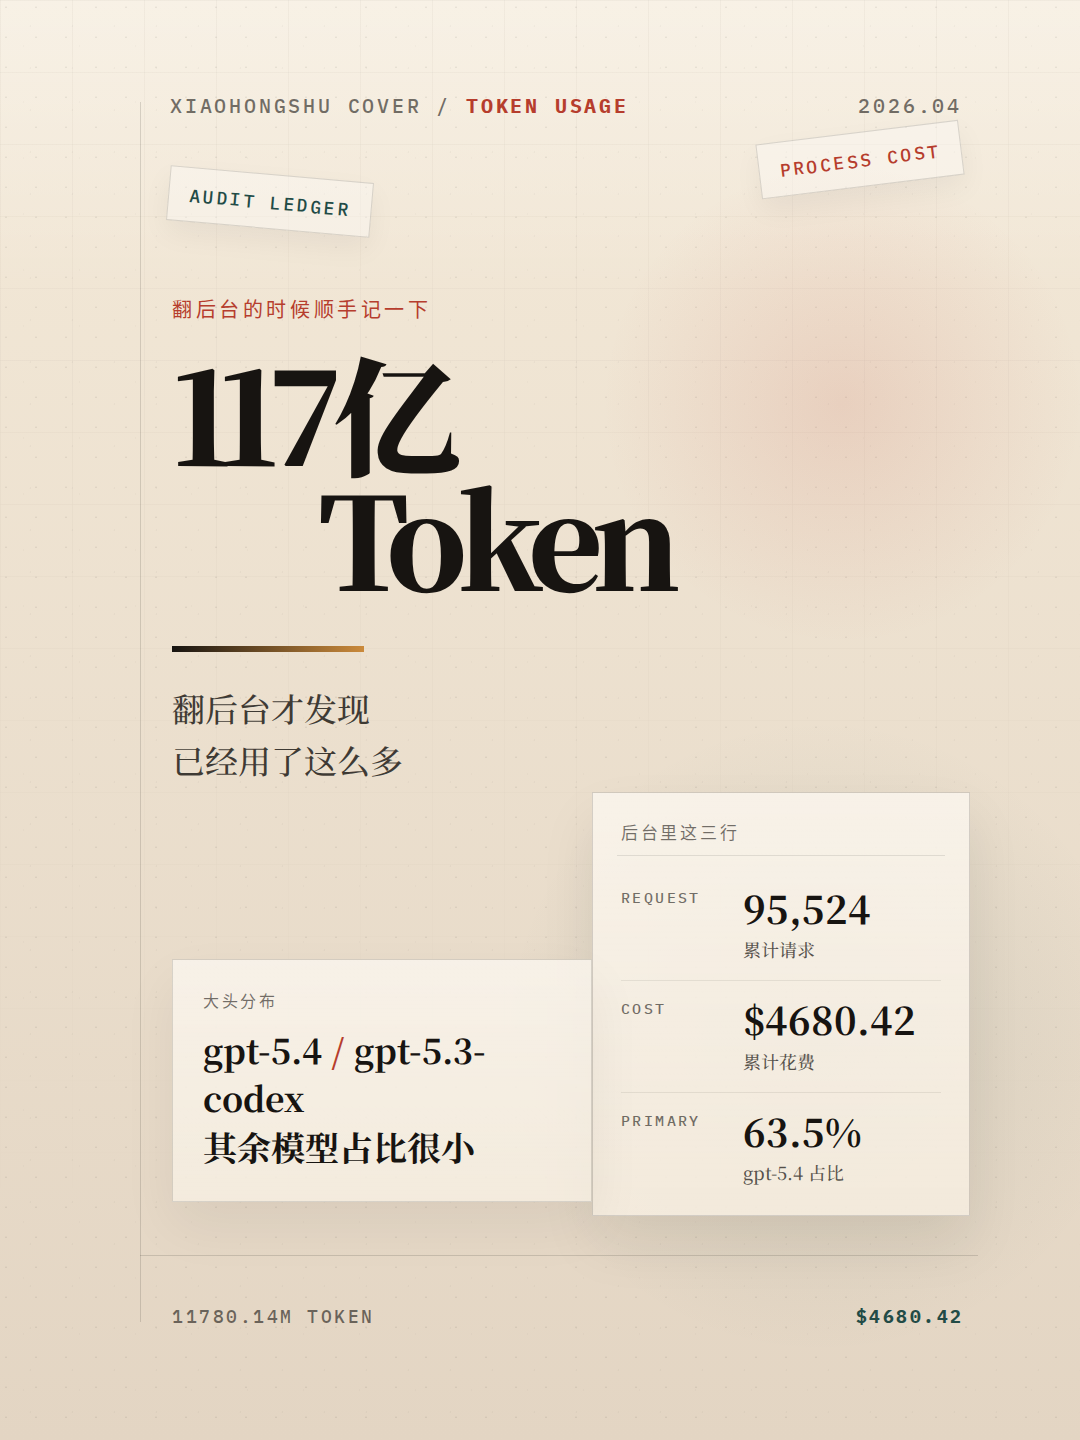
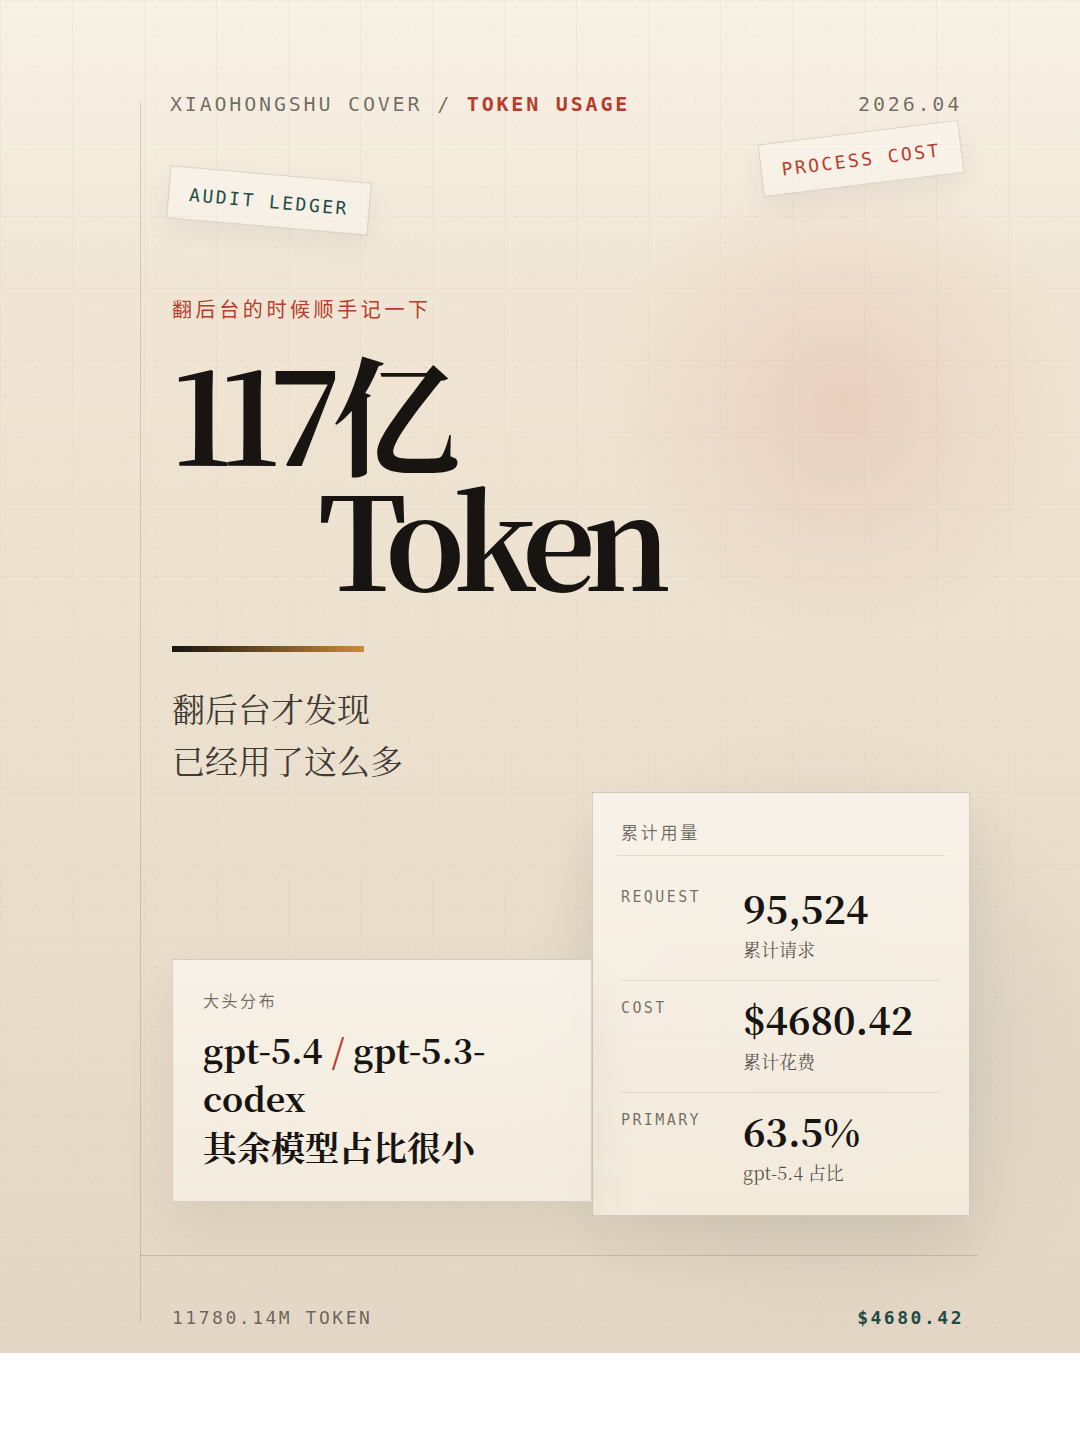
docs: simplify xiaohongshu token usage cover copy

diff --git a/site/social/xiaohongshu-token-usage-cover.html b/site/social/xiaohongshu-token-usage-cover.html
@@ -351,7 +351,7 @@
       </section>
 
       <aside class="board">
-        <p class="board-title">后台里这三行</p>
+        <p class="board-title">累计用量</p>
         <div class="metric">
           <div class="metric-label">request</div>
           <div>